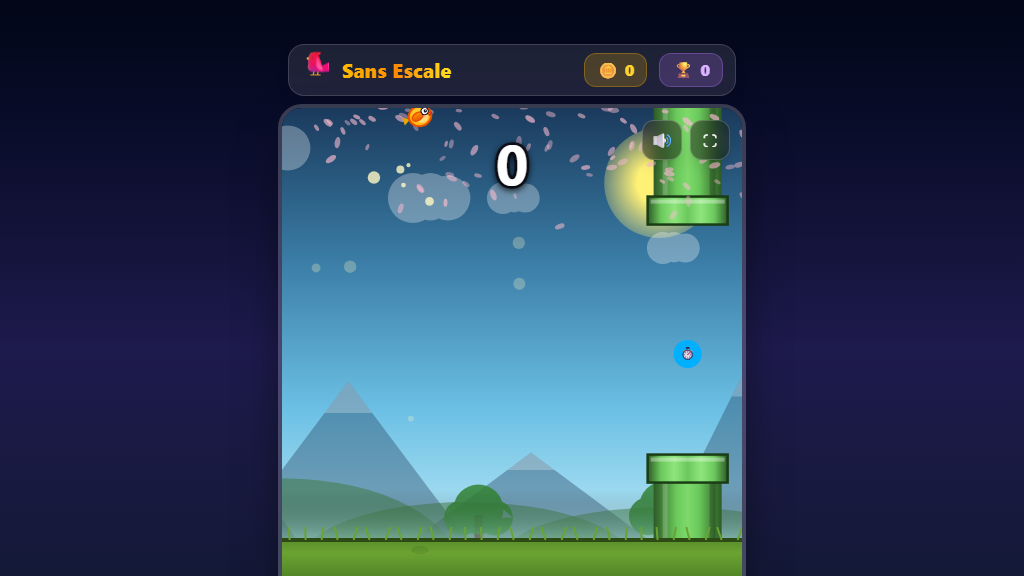
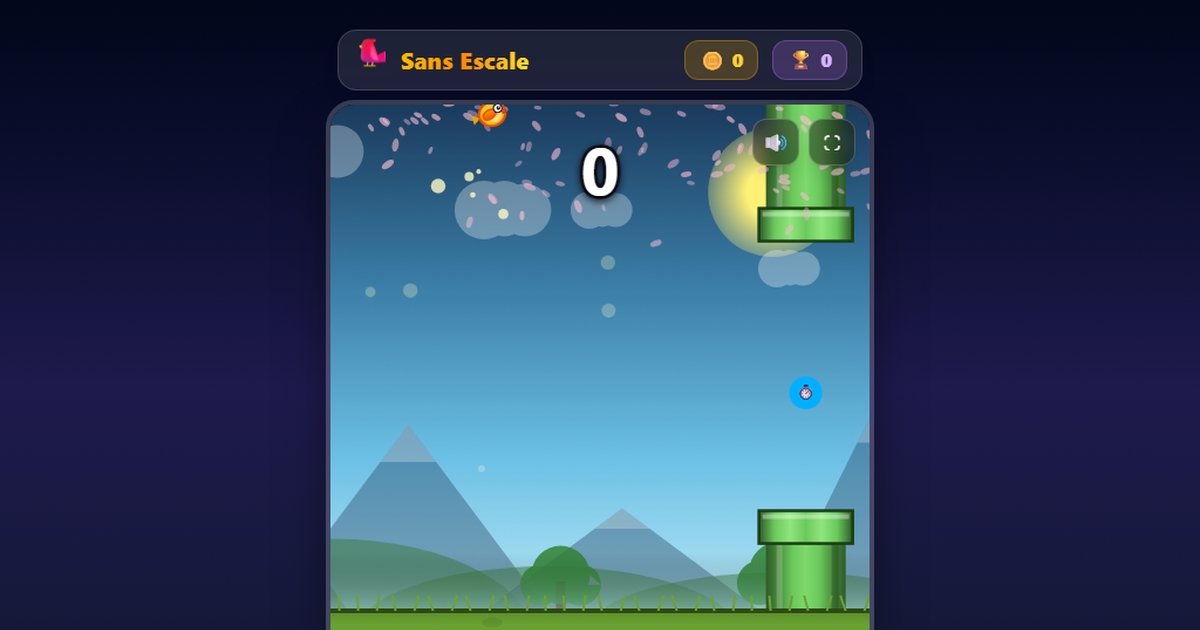
Open Graph : image 1200 x 630 et metadonnees completes

diff --git a/index.html b/index.html
@@ -9,13 +9,17 @@
     <meta property="og:type" content="website" />
     <meta property="og:title" content="Sans Escale : vol direct, sans retour" />
     <meta property="og:description" content="Un piaf qui ne doit jamais se poser : traversez 10 biomes en esquivant les tuyaux." />
-    <meta property="og:image" content="https://games.hylst.fr/sansescale/og-image.png" />
+    <meta property="og:image" content="https://games.hylst.fr/sansescale/og-image.png?v=2" />
+    <meta property="og:image:type" content="image/png" />
+    <meta property="og:image:width" content="1200" />
+    <meta property="og:image:height" content="630" />
+    <meta property="og:image:alt" content="Sans Escale" />
     <meta property="og:url" content="https://games.hylst.fr/sansescale/" />
     <meta property="og:site_name" content="Hylst.Games" />
     <meta name="twitter:card" content="summary_large_image" />
     <meta name="twitter:title" content="Sans Escale : vol direct, sans retour" />
     <meta name="twitter:description" content="Un piaf qui ne doit jamais se poser : traversez 10 biomes en esquivant les tuyaux." />
-    <meta name="twitter:image" content="https://games.hylst.fr/sansescale/og-image.png" />
+    <meta name="twitter:image" content="https://games.hylst.fr/sansescale/og-image.png?v=2" />
     <meta name="robots" content="index, follow" />
     <link rel="canonical" href="https://games.hylst.fr/sansescale/" />
     <link rel="icon" type="image/png" href="favicon.png" />
